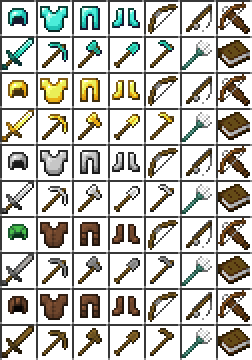
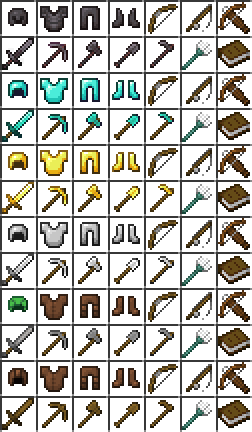
Netherite tools and armor

diff --git a/src/enchcracker/EnchCrackerWindow.java b/src/enchcracker/EnchCrackerWindow.java
@@ -16,6 +16,8 @@ import java.util.List;
 import javax.swing.*;
 import javax.swing.text.*;
 
+import static enchcracker.Items.*;
+
 public class EnchCrackerWindow extends StyledFrameMinecraft {
 	public static URL getFile(String name) {
 		File f = new File("data/"+name);
@@ -513,27 +515,31 @@ public class EnchCrackerWindow extends StyledFrameMinecraft {
 		final String[] itemToEnch = {null};
 		String[][][] itemGrid = new String[][][]{
 			{
-				{"diamond_helmet", "diamond_chestplate", "diamond_leggings", "diamond_boots", "bow", "fishing_rod", "crossbow"},
-				{"diamond_sword", "diamond_pickaxe", "diamond_axe", "diamond_shovel", "diamond_hoe", "trident", "book"}
+				{NETHERITE_HELMET, NETHERITE_CHESTPLATE, NETHERITE_LEGGINGS, NETHERITE_BOOTS, BOW, FISHING_ROD, CROSSBOW},
+				{NETHERITE_SWORD, NETHERITE_PICKAXE, NETHERITE_AXE, NETHERITE_SHOVEL, NETHERITE_HOE, TRIDENT, BOOK}
 			},
 			{
-				{"golden_helmet", "golden_chestplate", "golden_leggings", "golden_boots", "bow", "fishing_rod", "crossbow"},
-				{"golden_sword", "golden_pickaxe", "golden_axe", "golden_shovel", "golden_hoe", "trident", "book"}
+				{DIAMOND_HELMET, DIAMOND_CHESTPLATE, DIAMOND_LEGGINGS, DIAMOND_BOOTS, BOW, FISHING_ROD, CROSSBOW},
+				{DIAMOND_SWORD, DIAMOND_PICKAXE, DIAMOND_AXE, DIAMOND_SHOVEL, DIAMOND_HOE, TRIDENT, BOOK}
 			},
 			{
-				{"iron_helmet", "iron_chestplate", "iron_leggings", "iron_boots", "bow", "fishing_rod", "crossbow"},
-				{"iron_sword", "iron_pickaxe", "iron_axe", "iron_shovel", "iron_hoe", "trident", "book"}
+				{GOLDEN_HELMET, GOLDEN_CHESTPLATE, GOLDEN_LEGGINGS, GOLDEN_BOOTS, BOW, FISHING_ROD, CROSSBOW},
+				{GOLDEN_SWORD, GOLDEN_PICKAXE, GOLDEN_AXE, GOLDEN_SHOVEL, GOLDEN_HOE, TRIDENT, BOOK}
 			},
 			{
-				{"turtle_helmet", "leather_chestplate", "leather_leggings", "leather_boots", "bow", "fishing_rod", "crossbow"},
-				{"stone_sword", "stone_pickaxe", "stone_axe", "stone_shovel", "stone_hoe", "trident", "book"}
+				{IRON_HELMET, IRON_CHESTPLATE, IRON_LEGGINGS, IRON_BOOTS, BOW, FISHING_ROD, CROSSBOW},
+				{IRON_SWORD, IRON_PICKAXE, IRON_AXE, IRON_SHOVEL, IRON_HOE, TRIDENT, BOOK}
 			},
 			{
-				{"leather_helmet", "leather_chestplate", "leather_leggings", "leather_boots", "bow", "fishing_rod", "crossbow"},
-				{"wooden_sword", "wooden_pickaxe", "wooden_axe", "wooden_shovel", "wooden_hoe", "trident", "book"}
+				{TURTLE_HELMET, LEATHER_CHESTPLATE, LEATHER_LEGGINGS, LEATHER_BOOTS, BOW, FISHING_ROD, CROSSBOW},
+				{STONE_SWORD, STONE_PICKAXE, STONE_AXE, STONE_SHOVEL, STONE_HOE, TRIDENT, BOOK}
+			},
+			{
+				{LEATHER_HELMET, LEATHER_CHESTPLATE, LEATHER_LEGGINGS, LEATHER_BOOTS, BOW, FISHING_ROD, CROSSBOW},
+				{WOODEN_SWORD, WOODEN_PICKAXE, WOODEN_AXE, WOODEN_SHOVEL, WOODEN_HOE, TRIDENT, BOOK}
 			}
 		};
-		itemPicker = new ImagePanel("ench_items", 5) {
+		itemPicker = new ImagePanel("ench_items", 6) {
 			private final Color good = new Color(0, 80, 0), bad = new Color(139, 139, 139);
 			@Override
 			public void paint(Graphics g) {
@@ -612,7 +618,7 @@ public class EnchCrackerWindow extends StyledFrameMinecraft {
 		});
 		itemPicker.setToolTipText("The item you want to enchant");
 
-		ImagePanel matPicker = new ImagePanel("ench_mats", 5);
+		ImagePanel matPicker = new ImagePanel("ench_mats", 6);
 		matPicker.setBounds(298,42,matPicker.getSize().width,matPicker.getSize().height);
 		manipPane.add(matPicker);
 		matPicker.addMouseListener(new MouseListener() {
@@ -620,7 +626,9 @@ public class EnchCrackerWindow extends StyledFrameMinecraft {
 			public void mouseClicked(MouseEvent e) {}
 			@Override
 			public void mousePressed(MouseEvent e) {
-				itemPicker.curImg = (itemPicker.curImg + 1) % 5;
+				do {
+					itemPicker.curImg = (itemPicker.curImg + 1) % matPicker.getImageCount();
+				} while (mcVersion.before(Materials.getIntroducedVersion(itemPicker.curImg)));
 				itemPicker.repaint();
 				matPicker.curImg = itemPicker.curImg;
 				repaint();
@@ -861,7 +869,13 @@ public class EnchCrackerWindow extends StyledFrameMinecraft {
 		versionDropDown.setSelectedItem(mcVersion);
 		versionDropDown.addActionListener(event -> {
 			Log.info("Changed Minecraft version to " + versionDropDown.getSelectedItem());
-			mcVersion = (Versions) versionDropDown.getSelectedItem();
+			Versions ver = (Versions) versionDropDown.getSelectedItem();
+			if (ver != null)
+				mcVersion = ver;
+			while (mcVersion.before(Materials.getIntroducedVersion(matPicker.curImg))) {
+				matPicker.curImg = (matPicker.curImg + 1) % matPicker.getImageCount();
+			}
+			itemPicker.curImg = matPicker.curImg;
 			repaint();
 		});
 		versionDropDown.setFont(MCFont.standardFont);

diff --git a/src/enchcracker/Items.java b/src/enchcracker/Items.java
@@ -65,7 +65,17 @@ public class Items {
 			TRIDENT = "trident",
 			TURTLE_HELMET = "turtle_helmet",
 			// 1.14
-			CROSSBOW = "crossbow";
+			CROSSBOW = "crossbow",
+			// 1.16
+			NETHERITE_HELMET = "netherite_helmet",
+			NETHERITE_CHESTPLATE = "netherite_chestplate",
+			NETHERITE_LEGGINGS = "netherite_leggings",
+			NETHERITE_BOOTS = "netherite_boots",
+			NETHERITE_SWORD = "netherite_sword",
+			NETHERITE_PICKAXE = "netherite_pickaxe",
+			NETHERITE_AXE = "netherite_axe",
+			NETHERITE_SHOVEL = "netherite_shovel",
+			NETHERITE_HOE = "netherite_hoe";
 	// @formatter:on
 
 	public static boolean isArmor(String item) {
@@ -92,7 +102,11 @@ public class Items {
 				|| DIAMOND_CHESTPLATE.equals(item)
 				|| DIAMOND_LEGGINGS.equals(item)
 				|| DIAMOND_BOOTS.equals(item)
-				|| TURTLE_HELMET.equals(item);
+				|| TURTLE_HELMET.equals(item)
+				|| NETHERITE_HELMET.equals(item)
+				|| NETHERITE_CHESTPLATE.equals(item)
+				|| NETHERITE_LEGGINGS.equals(item)
+				|| NETHERITE_BOOTS.equals(item);
 			// @formatter:on
 		}
 		return false;
@@ -121,7 +135,8 @@ public class Items {
 				|| STONE_SWORD.equals(item)
 				|| IRON_SWORD.equals(item)
 				|| GOLDEN_SWORD.equals(item)
-				|| DIAMOND_SWORD.equals(item);
+				|| DIAMOND_SWORD.equals(item)
+				|| NETHERITE_SWORD.equals(item);
 			// @formatter:on
 		}
 		return false;
@@ -134,7 +149,8 @@ public class Items {
 				|| STONE_AXE.equals(item)
 				|| IRON_AXE.equals(item)
 				|| GOLDEN_AXE.equals(item)
-				|| DIAMOND_AXE.equals(item);
+				|| DIAMOND_AXE.equals(item)
+				|| NETHERITE_AXE.equals(item);
 			// @formatter:on
 		}
 		return false;
@@ -147,7 +163,8 @@ public class Items {
 				|| STONE_HOE.equals(item)
 				|| IRON_HOE.equals(item)
 				|| GOLDEN_HOE.equals(item)
-				|| DIAMOND_HOE.equals(item);
+				|| DIAMOND_HOE.equals(item)
+				|| NETHERITE_HOE.equals(item);
 			// @formatter:on
 		}
 		return false;
@@ -164,11 +181,13 @@ public class Items {
 				|| IRON_PICKAXE.equals(item)
 				|| GOLDEN_PICKAXE.equals(item)
 				|| DIAMOND_PICKAXE.equals(item)
+				|| NETHERITE_PICKAXE.equals(item)
 				|| WOODEN_SHOVEL.equals(item)
 				|| STONE_SHOVEL.equals(item)
 				|| IRON_SHOVEL.equals(item)
 				|| GOLDEN_SHOVEL.equals(item)
-				|| DIAMOND_SHOVEL.equals(item);
+				|| DIAMOND_SHOVEL.equals(item)
+				|| NETHERITE_SHOVEL.equals(item);
 			// @formatter:on
 		}
 		return false;
@@ -212,6 +231,9 @@ public class Items {
 			if (item.startsWith("turtle_")) {
 				return 9;
 			}
+			if (item.startsWith("netherite_")) {
+				return 15;
+			}
 		}
 		if (isSword(item) || isTool(item) || isHoe(item)) {
 			if (item.startsWith("wooden_")) {
@@ -228,6 +250,9 @@ public class Items {
 			}
 			if (item.startsWith("diamond_")) {
 				return 10;
+			}
+			if (item.startsWith("netherite_")) {
+				return 15;
 			}
 		}
 		if (BOW.equals(item)) {
@@ -258,6 +283,16 @@ public class Items {
 				return Versions.V1_13;
 			case CROSSBOW:
 				return Versions.V1_14;
+			case NETHERITE_HELMET:
+			case NETHERITE_CHESTPLATE:
+			case NETHERITE_LEGGINGS:
+			case NETHERITE_BOOTS:
+			case NETHERITE_SWORD:
+			case NETHERITE_PICKAXE:
+			case NETHERITE_AXE:
+			case NETHERITE_SHOVEL:
+			case NETHERITE_HOE:
+				return Versions.V1_16;
 			default:
 				return Versions.V1_8;
 		}

diff --git a/src/enchcracker/Materials.java b/src/enchcracker/Materials.java
@@ -1,0 +1,18 @@
+package enchcracker;
+
+public class Materials {
+
+    public static final int NETHERITE = 0;
+    public static final int DIAMOND = 1;
+    public static final int GOLD = 2;
+    public static final int IRON = 3;
+    public static final int STONE = 4;
+    public static final int LEATHER = 5;
+
+    public static Versions getIntroducedVersion(int material) {
+        if (material == NETHERITE)
+            return Versions.V1_16;
+        return Versions.V1_8;
+    }
+
+}

diff --git a/src/enchcracker/Versions.java b/src/enchcracker/Versions.java
@@ -7,7 +7,8 @@ public enum Versions {
     V1_11_1("1.11.1 - 1.12.2"),
     V1_13("1.13 - 1.13.2"),
     V1_14("1.14 - 1.14.2"),
-    V1_14_3("1.14.3 - 1.15"),
+    V1_14_3("1.14.3 - 1.15.2"),
+    V1_16("1.16")
     ;
 
     public final String name;

diff --git a/src/enchcracker/swing/ImagePanel.java b/src/enchcracker/swing/ImagePanel.java
@@ -53,4 +53,8 @@ public class ImagePanel extends JPanel {
     public Dimension getPreferredSize() {
         return getSize();
     }
+
+    public int getImageCount() {
+        return backgroundImage.length;
+    }
 }
